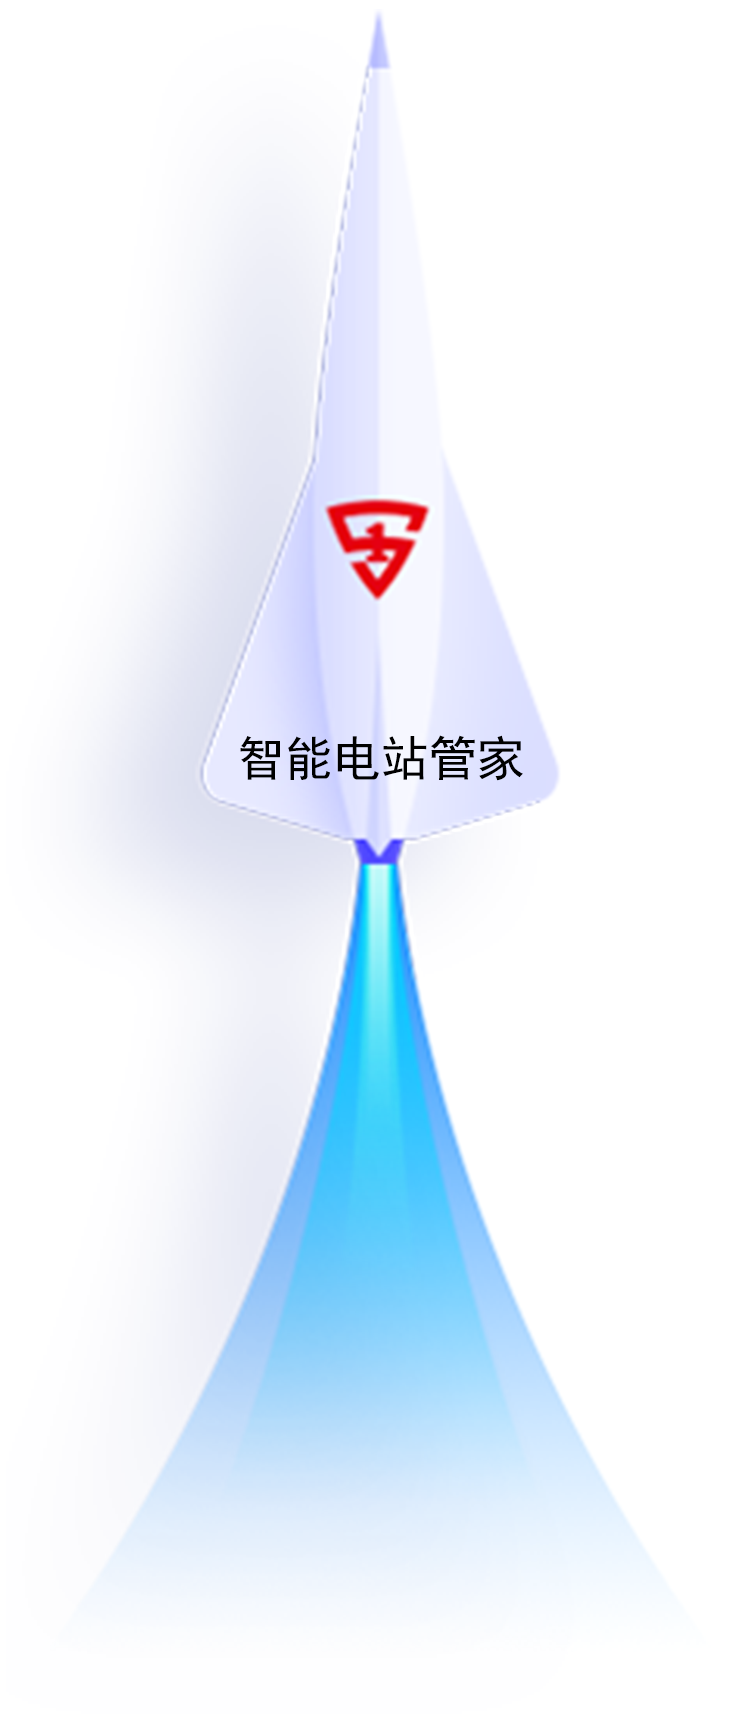
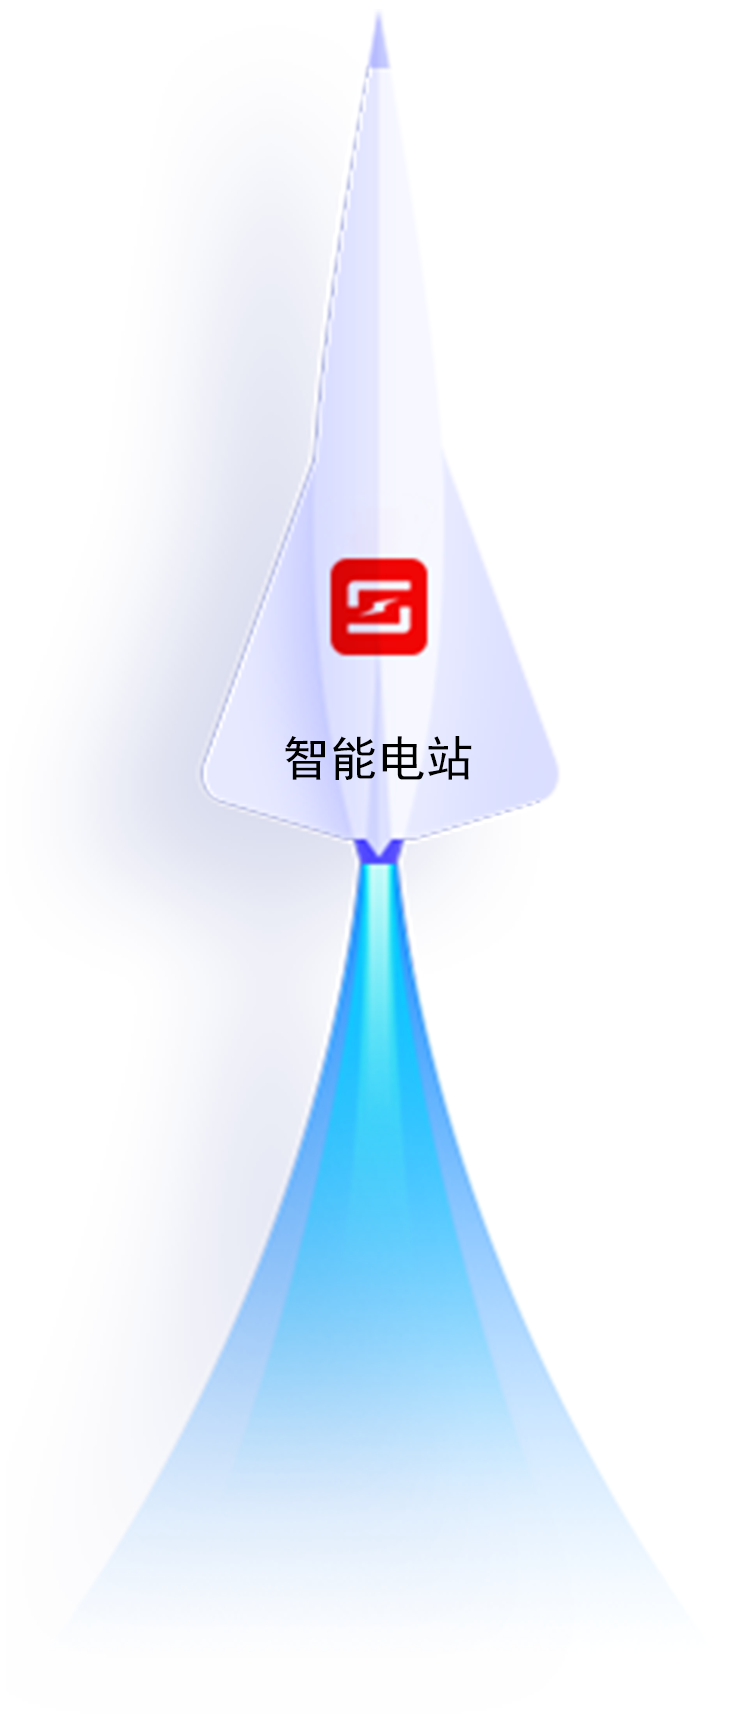
图片资源替换

Changed region(s): [[0.4259, 0.277, 0.578, 0.4001], [0.3042, 0.4309, 0.6997, 0.4617]]

diff --git a/src/hsa_app/lib/page/station/station_page.dart b/src/hsa_app/lib/page/station/station_page.dart
@@ -47,7 +47,7 @@ class _StationPageState extends State<StationPage> {
   }
 
   // 请求电站概要
-  void reqeustStationInfo() {
+  void reqeustStationInfo() { 
     Progresshud.showWithStatus('读取数据中...');
 
     final stationId = widget?.stationId ?? '';

diff --git a/src/hsa_app/ios/Runner/AppDelegate.m b/src/hsa_app/ios/Runner/AppDelegate.m
@@ -3,8 +3,7 @@
 
 @implementation AppDelegate
 
-- (BOOL)application:(UIApplication *)application
-    didFinishLaunchingWithOptions:(NSDictionary *)launchOptions {
+- (BOOL)application:(UIApplication *)application didFinishLaunchingWithOptions:(NSDictionary *)launchOptions {
   [GeneratedPluginRegistrant registerWithRegistry:self];
   return [super application:application didFinishLaunchingWithOptions:launchOptions];
 }
